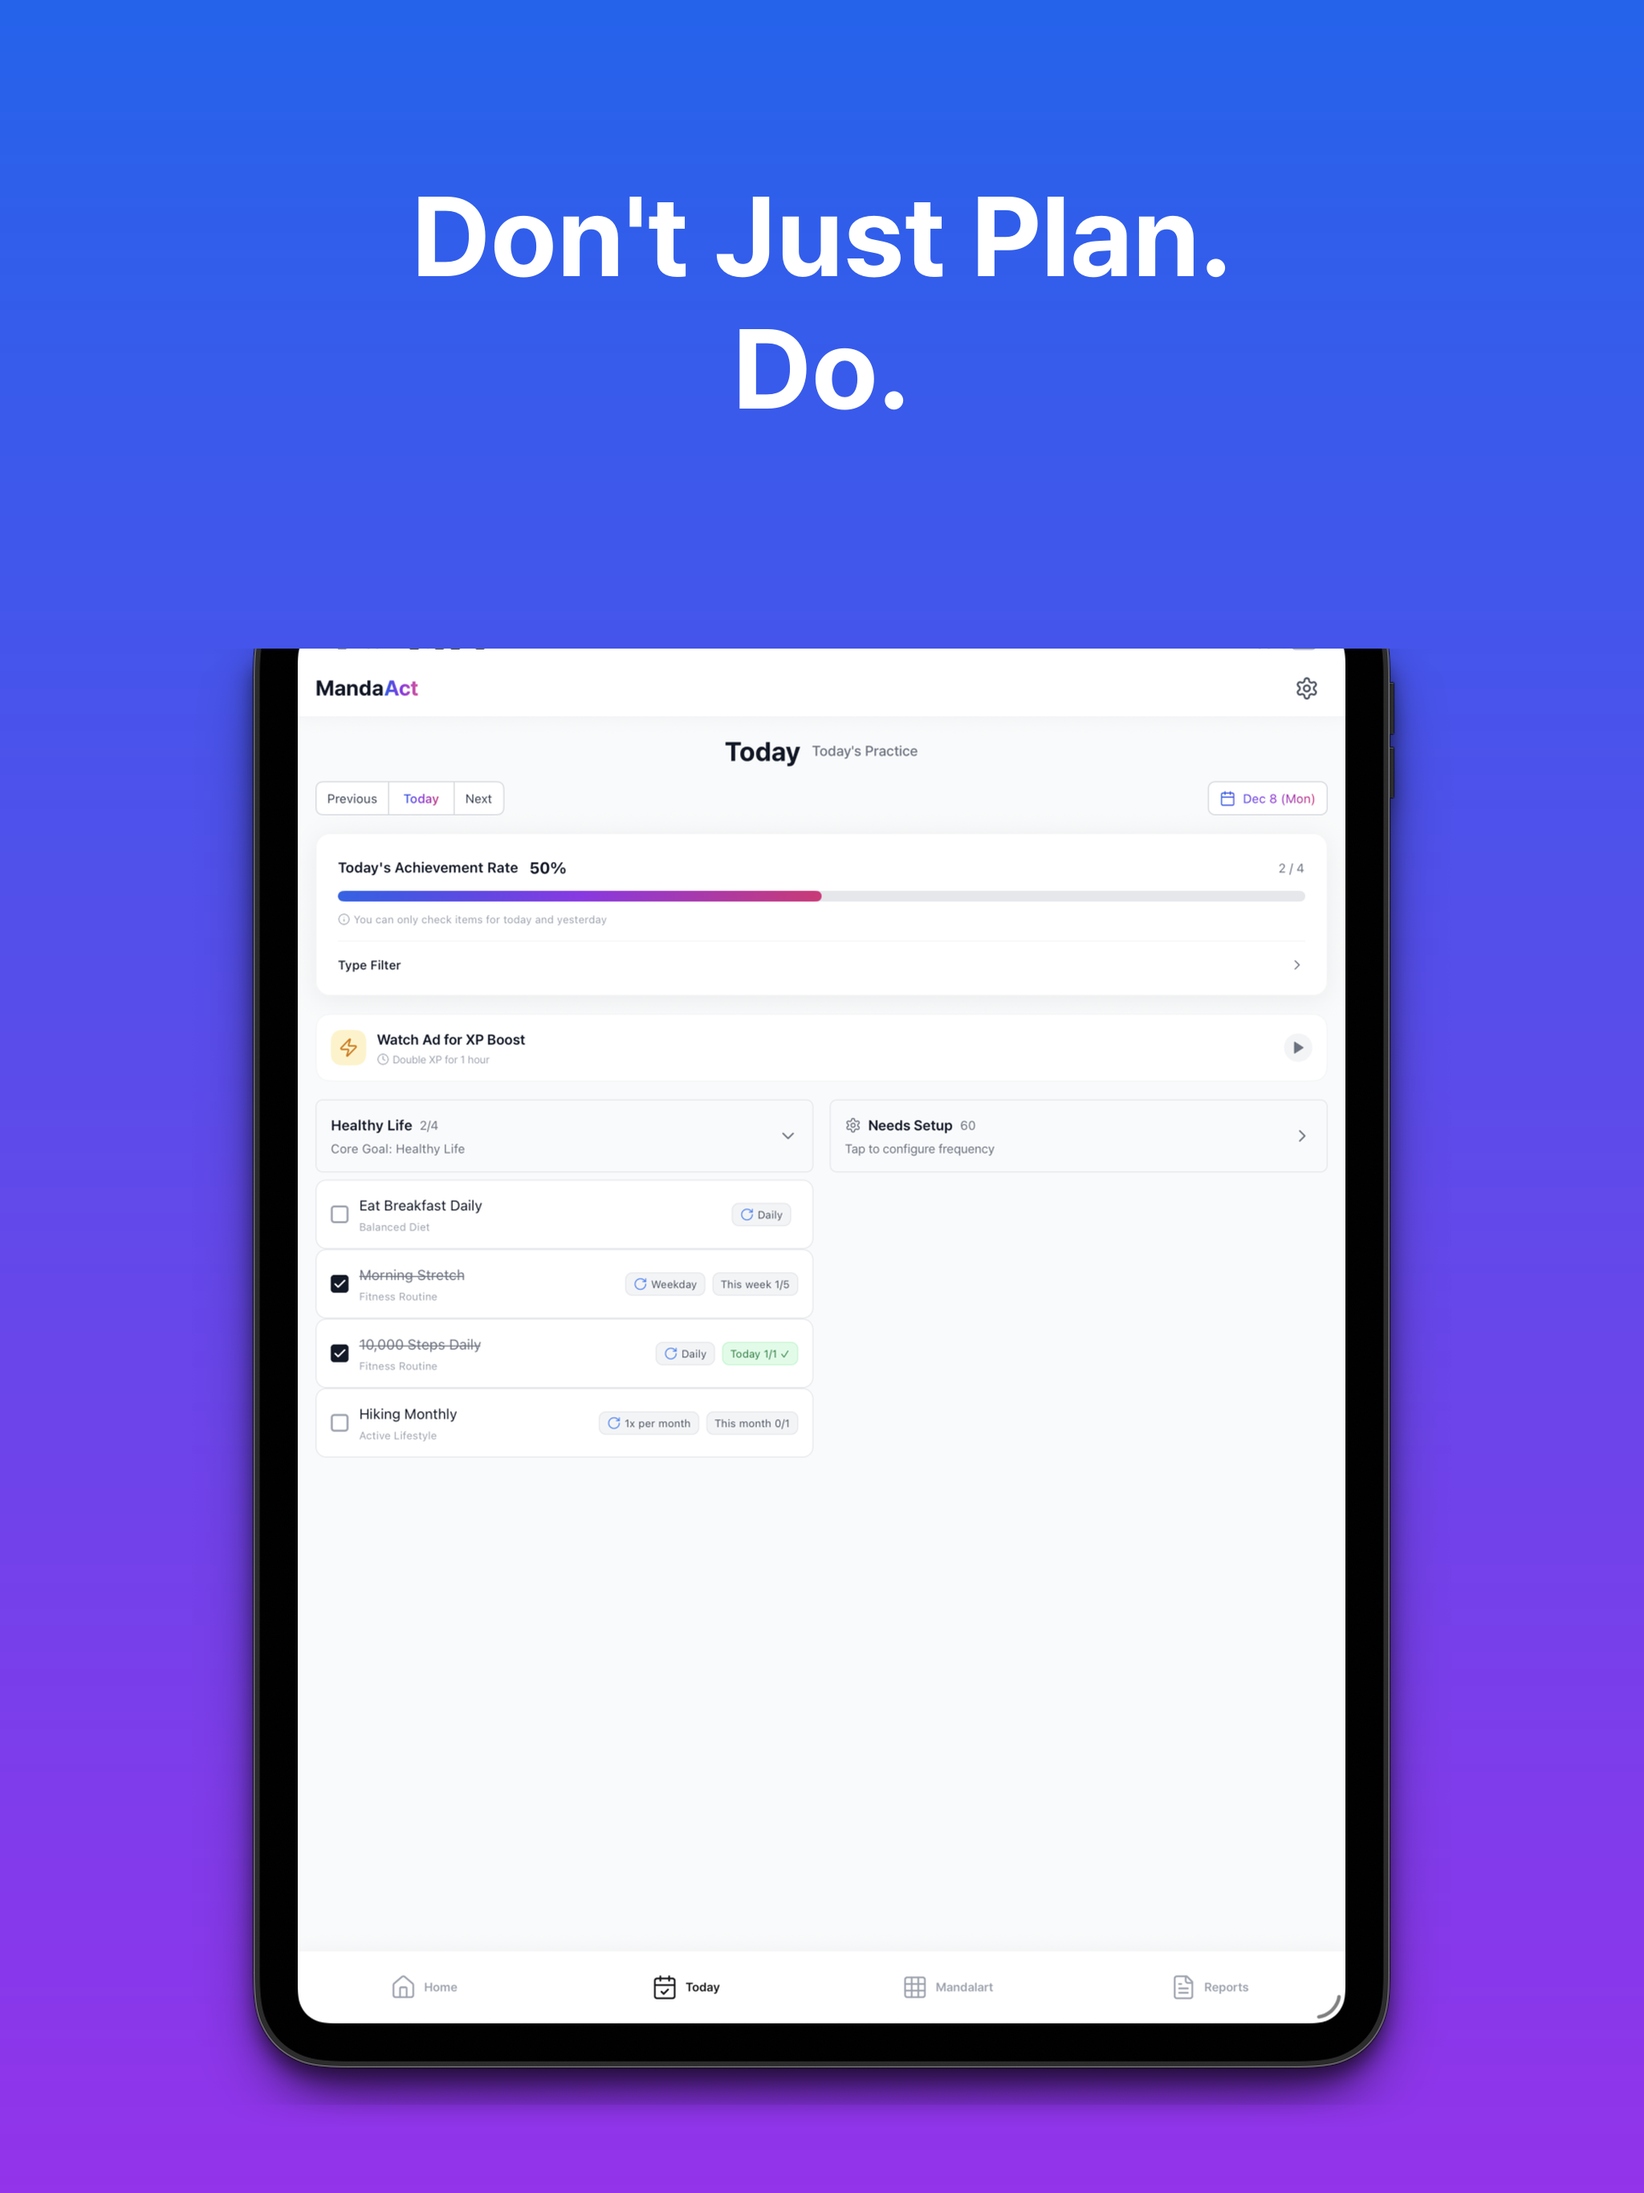
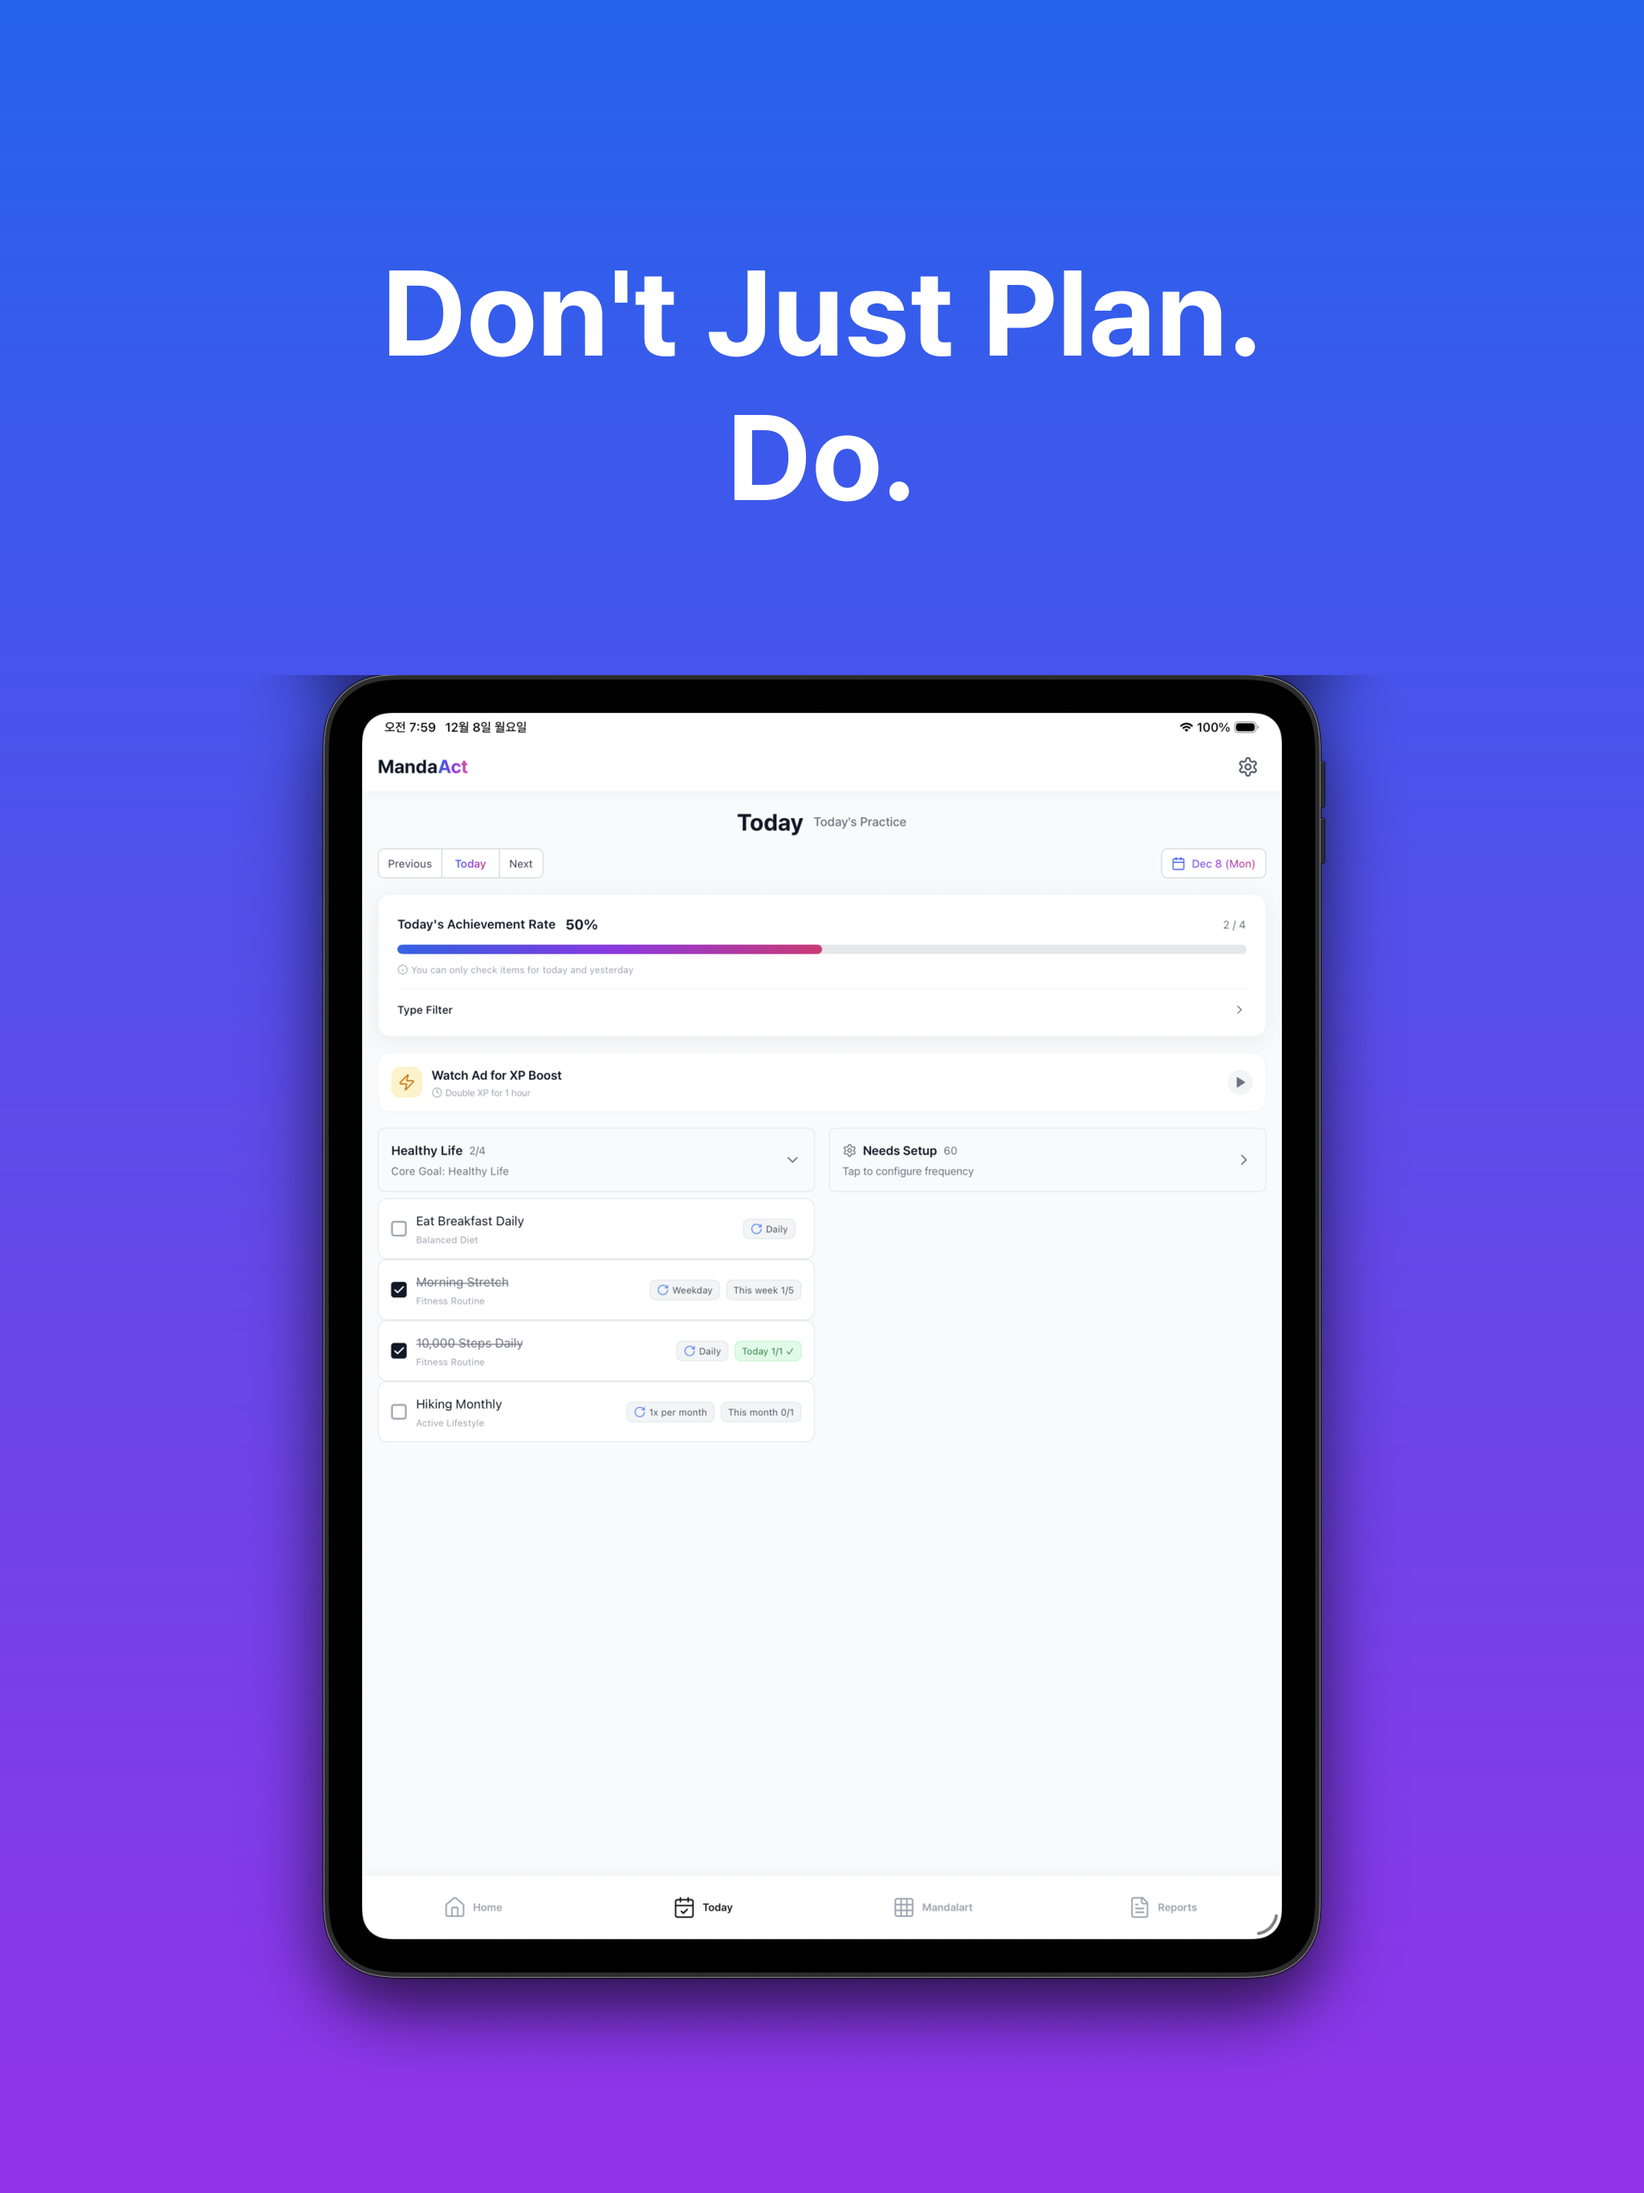
Revert "feat(marketing): improve screenshot readability (#86)" (#87)
This reverts commit ff21eb7457accb6f6ce553923bfcbf8f27dbd630.

diff --git a/docs/marketing/generate_screenshots.py b/docs/marketing/generate_screenshots.py
@@ -13,7 +13,7 @@ Design Philosophy:
 ================================================================================
 """
 
-from PIL import Image, ImageDraw, ImageFilter, ImageFont
+from PIL import Image, ImageDraw, ImageFont
 import os
 
 # --- Configuration ---
@@ -23,10 +23,8 @@ ASSETS_DIR = os.path.join(BASE_DIR, "assets")
 RAW_DIR = os.path.join(ASSETS_DIR, "raw")
 FINAL_DIR = os.path.join(ASSETS_DIR, "final")
 
-# Font Path (repo-relative)
-FONT_BOLD = os.path.normpath(
-    os.path.join(BASE_DIR, "..", "..", "apps", "mobile", "assets", "fonts", "Pretendard-Bold.otf")
-)
+# Font Path
+FONT_BOLD = "/Users/jhsy/mandaact/apps/mobile/assets/fonts/Pretendard-Bold.otf"
 
 # Colors
 GRADIENT_START = (37, 99, 235)  # #2563eb (Blue)
@@ -38,25 +36,22 @@ DEVICES = {
     "iphone": {
         "width": 1284,             # Compatible with 6.5"/6.7" Pro Max slots
         "height": 2778,
-        "screenshot_scale": 0.95,  # Larger for readability
-        "bottom_margin": 90,       # More room for UI
-        "title_step_y": 190,       # Reduce title block height
-        "title_size": 120,
-        "line_spacing": 138,
+        "screenshot_scale": 0.88,  # Slightly smaller for premium balance
+        "bottom_margin": 140,      # More space at the bottom 
+        "title_step_y": 280,       # Start title higher
+        "title_size": 130,
+        "line_spacing": 150,
         "corner_radius": 80,
-        # Optional crop to enlarge content area (ratios of the raw screenshot)
-        "content_crop": {"top": 0.06, "bottom": 0.08, "left": 0.00, "right": 0.00},
     },
     "ipad": {
         "width": 2048,             # Compatible with 12.9" Pro slots
         "height": 2732,
-        "screenshot_scale": 0.82,  # Larger for readability
-        "bottom_margin": 110,
-        "title_step_y": 210,
-        "title_size": 140,
-        "line_spacing": 165,
+        "screenshot_scale": 0.72,
+        "bottom_margin": 120,
+        "title_step_y": 300,
+        "title_size": 150,
+        "line_spacing": 180,
         "corner_radius": 60,
-        "content_crop": {"top": 0.04, "bottom": 0.06, "left": 0.00, "right": 0.00},
     }
 }
 
@@ -97,34 +92,6 @@ def apply_rounded_corners(img, radius):
     output = Image.new('RGBA', img.size, (0, 0, 0, 0))
     output.paste(img, (0, 0), mask)
     return output
-
-def apply_content_crop(img, crop):
-    """Crop out UI chrome (status/tab bars) to enlarge the meaningful area."""
-    if not crop:
-        return img
-    w, h = img.size
-    left = int(w * crop.get("left", 0))
-    right = int(w * (1 - crop.get("right", 0)))
-    top = int(h * crop.get("top", 0))
-    bottom = int(h * (1 - crop.get("bottom", 0)))
-    if right <= left or bottom <= top:
-        return img
-    return img.crop((left, top, right, bottom))
-
-def add_shadow(card, blur=18, opacity=110, offset=(0, 16)):
-    """Create a soft shadow for an RGBA image with transparency."""
-    shadow = Image.new("RGBA", (card.width + blur * 4, card.height + blur * 4), (0, 0, 0, 0))
-    alpha = card.split()[-1]
-    shadow_alpha = Image.new("L", alpha.size, 0)
-    shadow_alpha.paste(alpha, (0, 0))
-    shadow_layer = Image.new("RGBA", alpha.size, (0, 0, 0, opacity))
-    shadow_layer.putalpha(shadow_alpha)
-    shadow.paste(shadow_layer, (blur * 2, blur * 2))
-    shadow = shadow.filter(ImageFilter.GaussianBlur(radius=blur))
-    result = Image.new("RGBA", shadow.size, (0, 0, 0, 0))
-    result.paste(shadow, offset, shadow)
-    result.paste(card, (blur * 2, blur * 2), card)
-    return result
 
 # --- Generator ---
 
@@ -170,9 +137,6 @@ def generate_screenshot(lang, device_key):
         bbox = ss.getbbox()
         if bbox:
             ss = ss.crop(bbox)
-
-        # Crop UI chrome to increase legibility (optional, per device)
-        ss = apply_content_crop(ss, device.get("content_crop"))
         
         # Scale
         target_w = int(device["width"] * device["screenshot_scale"])
@@ -182,18 +146,13 @@ def generate_screenshot(lang, device_key):
         
         # Apply Rounded Corners
         ss = apply_rounded_corners(ss, device["corner_radius"])
-
-        # Add subtle shadow for separation from gradient background
-        ss_with_shadow = add_shadow(ss, blur=18 if device_key == "iphone" else 14, opacity=120)
         
         # Position (Centered horizontally, specific bottom margin)
         ss_x = (device["width"] - target_w) // 2
         ss_y = device["height"] - target_h - device["bottom_margin"]
         
         # Paste onto background
-        shadow_x = ss_x - (ss_with_shadow.width - ss.width) // 2
-        shadow_y = ss_y - (ss_with_shadow.height - ss.height) // 2
-        canvas.paste(ss_with_shadow, (shadow_x, shadow_y), ss_with_shadow)
+        canvas.paste(ss, (ss_x, ss_y), ss)
         
         # 4. Save Final Image
         out_path = os.path.join(output_dir, item["out_filename"])

diff --git a/docs/marketing/APP_STORE_SCREENSHOTS.md b/docs/marketing/APP_STORE_SCREENSHOTS.md
@@ -17,35 +17,6 @@
 3.  **Code Disable (Optional)**: Temporarily comment out `<BannerAd />` in `HomeScreen.tsx` if needed.
 
 ---
-
-## 0.1 2025 트렌드/베스트 프랙티스(가독성 중심)
-
-스크린샷은 “세련됨”보다 먼저 **가독성**이 확보되어야 전환이 나옵니다. 특히 Apple 가이드 상 **첫 1~3장이 검색 결과에 노출**될 수 있으므로, 첫 장부터 “이 앱이 뭔지/왜 필요한지”가 5초 내 전달되어야 합니다.
-
-참고:
-- Apple Product Page: https://developer.apple.com/app-store/product-page/
-- SplitMetrics(ASO): https://splitmetrics.com/blog/app-store-screenshots/
-
-핵심 원칙:
-- **한 장 = 한 메시지**: 각 이미지에서 하나의 메인 베네핏만 강조
-- **UI 확대**: 상태바/탭바 등 “핵심이 아닌 영역” 비중을 줄이고, 핵심 콘텐츠를 크롭/확대
-- **스토리 구성**: 가치(왜) → 실행(어떻게) → 차별점 → 보상/동기 → 인사이트
-- **현지화**: 언어별 카피 길이에 따라 템플릿이 깨지지 않도록 레이아웃/줄바꿈을 템플릿화
-- **과한 합성 지양**: 앱 UI 캡처 기반(사람이 기기를 들고 있는 사진 등은 피하기)
-
----
-
-## 0.2 현재 스크린샷 문제(가독성)
-
-- UI가 상대적으로 작게 보여 “무엇을 하는 앱인지”가 한눈에 안 들어옴
-- 일부 raw 스크린샷은 해상도가 낮아, 확대 시 선명도가 떨어질 수 있음(가독성 상한선)
-
-개선 방향(우선순위):
-1) **템플릿에서 UI를 더 크게**(여백/타이틀 영역 최적화)
-2) **핵심 영역 크롭/줌**(상/하단 바 비중 축소)
-3) (권장) App Store 기준 해상도로 raw 재캡처 후 재생성
-
----
 ## 1. Storytelling Strategy (The "User Journey" Flow)
 
 We will use a **5-Step Narrative** that guides the user from their "Big Goal" to "Daily Action" and finally "Achievement".
